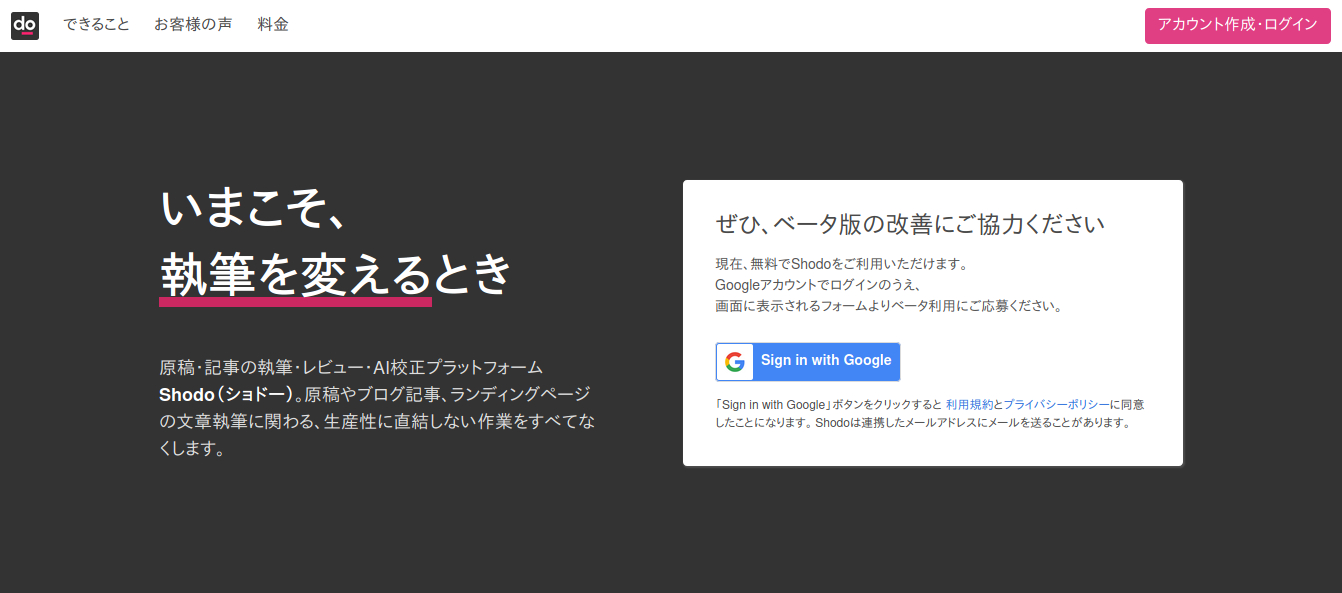
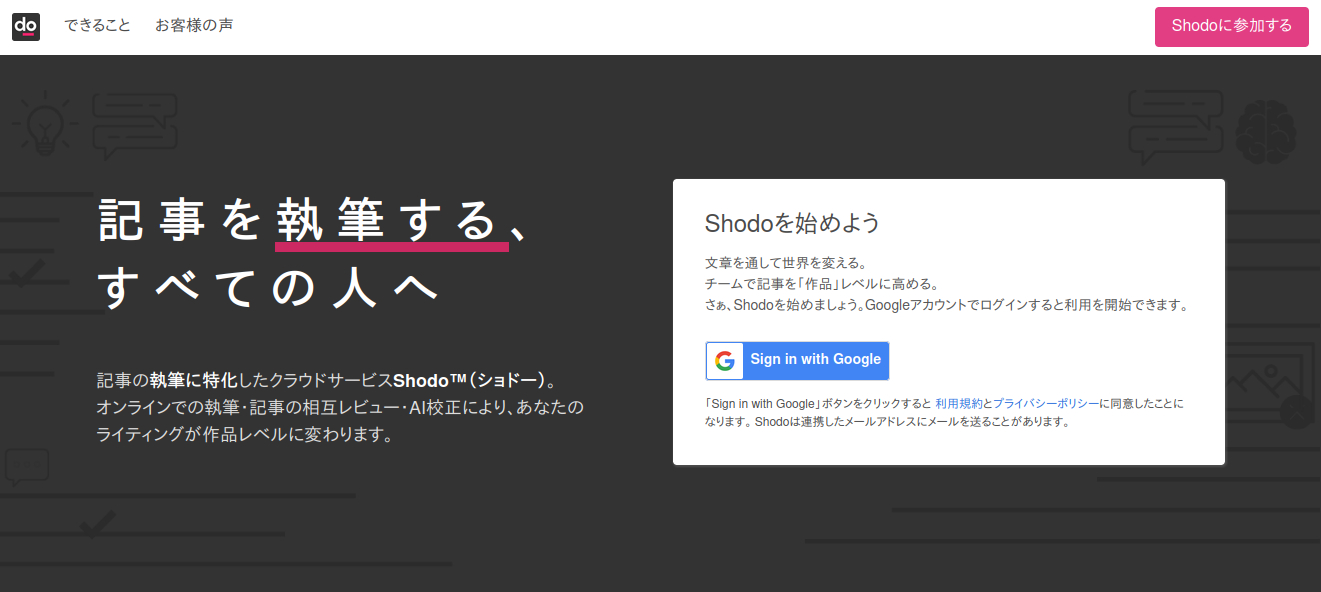
Updated to new Screenshot and copy texts.

diff --git a/docs/index.html b/docs/index.html
@@ -47,12 +47,12 @@
       </a>
     </figure>
     <p>
-      <strong>「単なる文字を、 伝わる作品にするところ」</strong>
+      <strong>記事を執筆する、すべての人へ</strong>
     </p>
     <p>
-      記事の執筆・レビュー・AI校正プラットフォームShodo（ショドー）を開発・運営しております。<br/>
-      執筆に関わる仕事はもっと楽に、楽しくできるはず。もっと気軽にコラボレーションできるはず。<br/>
-      原稿やブログ記事、ランディングページやオウンドメディアの文章執筆に関わる、ライター、マーケター、レビュアー、エンジニアの皆さんのための場所がShodoです。
+      記事の執筆・相互レビュー・AI校正クラウドサービスShodo（ショドー）を開発・運営しております。<br>
+      執筆に関わる仕事はもっと楽に、楽しくできるはず。もっと気軽にコラボレーションできるはず。<br>
+      原稿やブログ記事、ランディングページやオウンドメディアの文章を執筆することに特化したクラウドサービスです。
     </p>
     <figure class="image showcase">
       <a href="https://shodo.ink">
